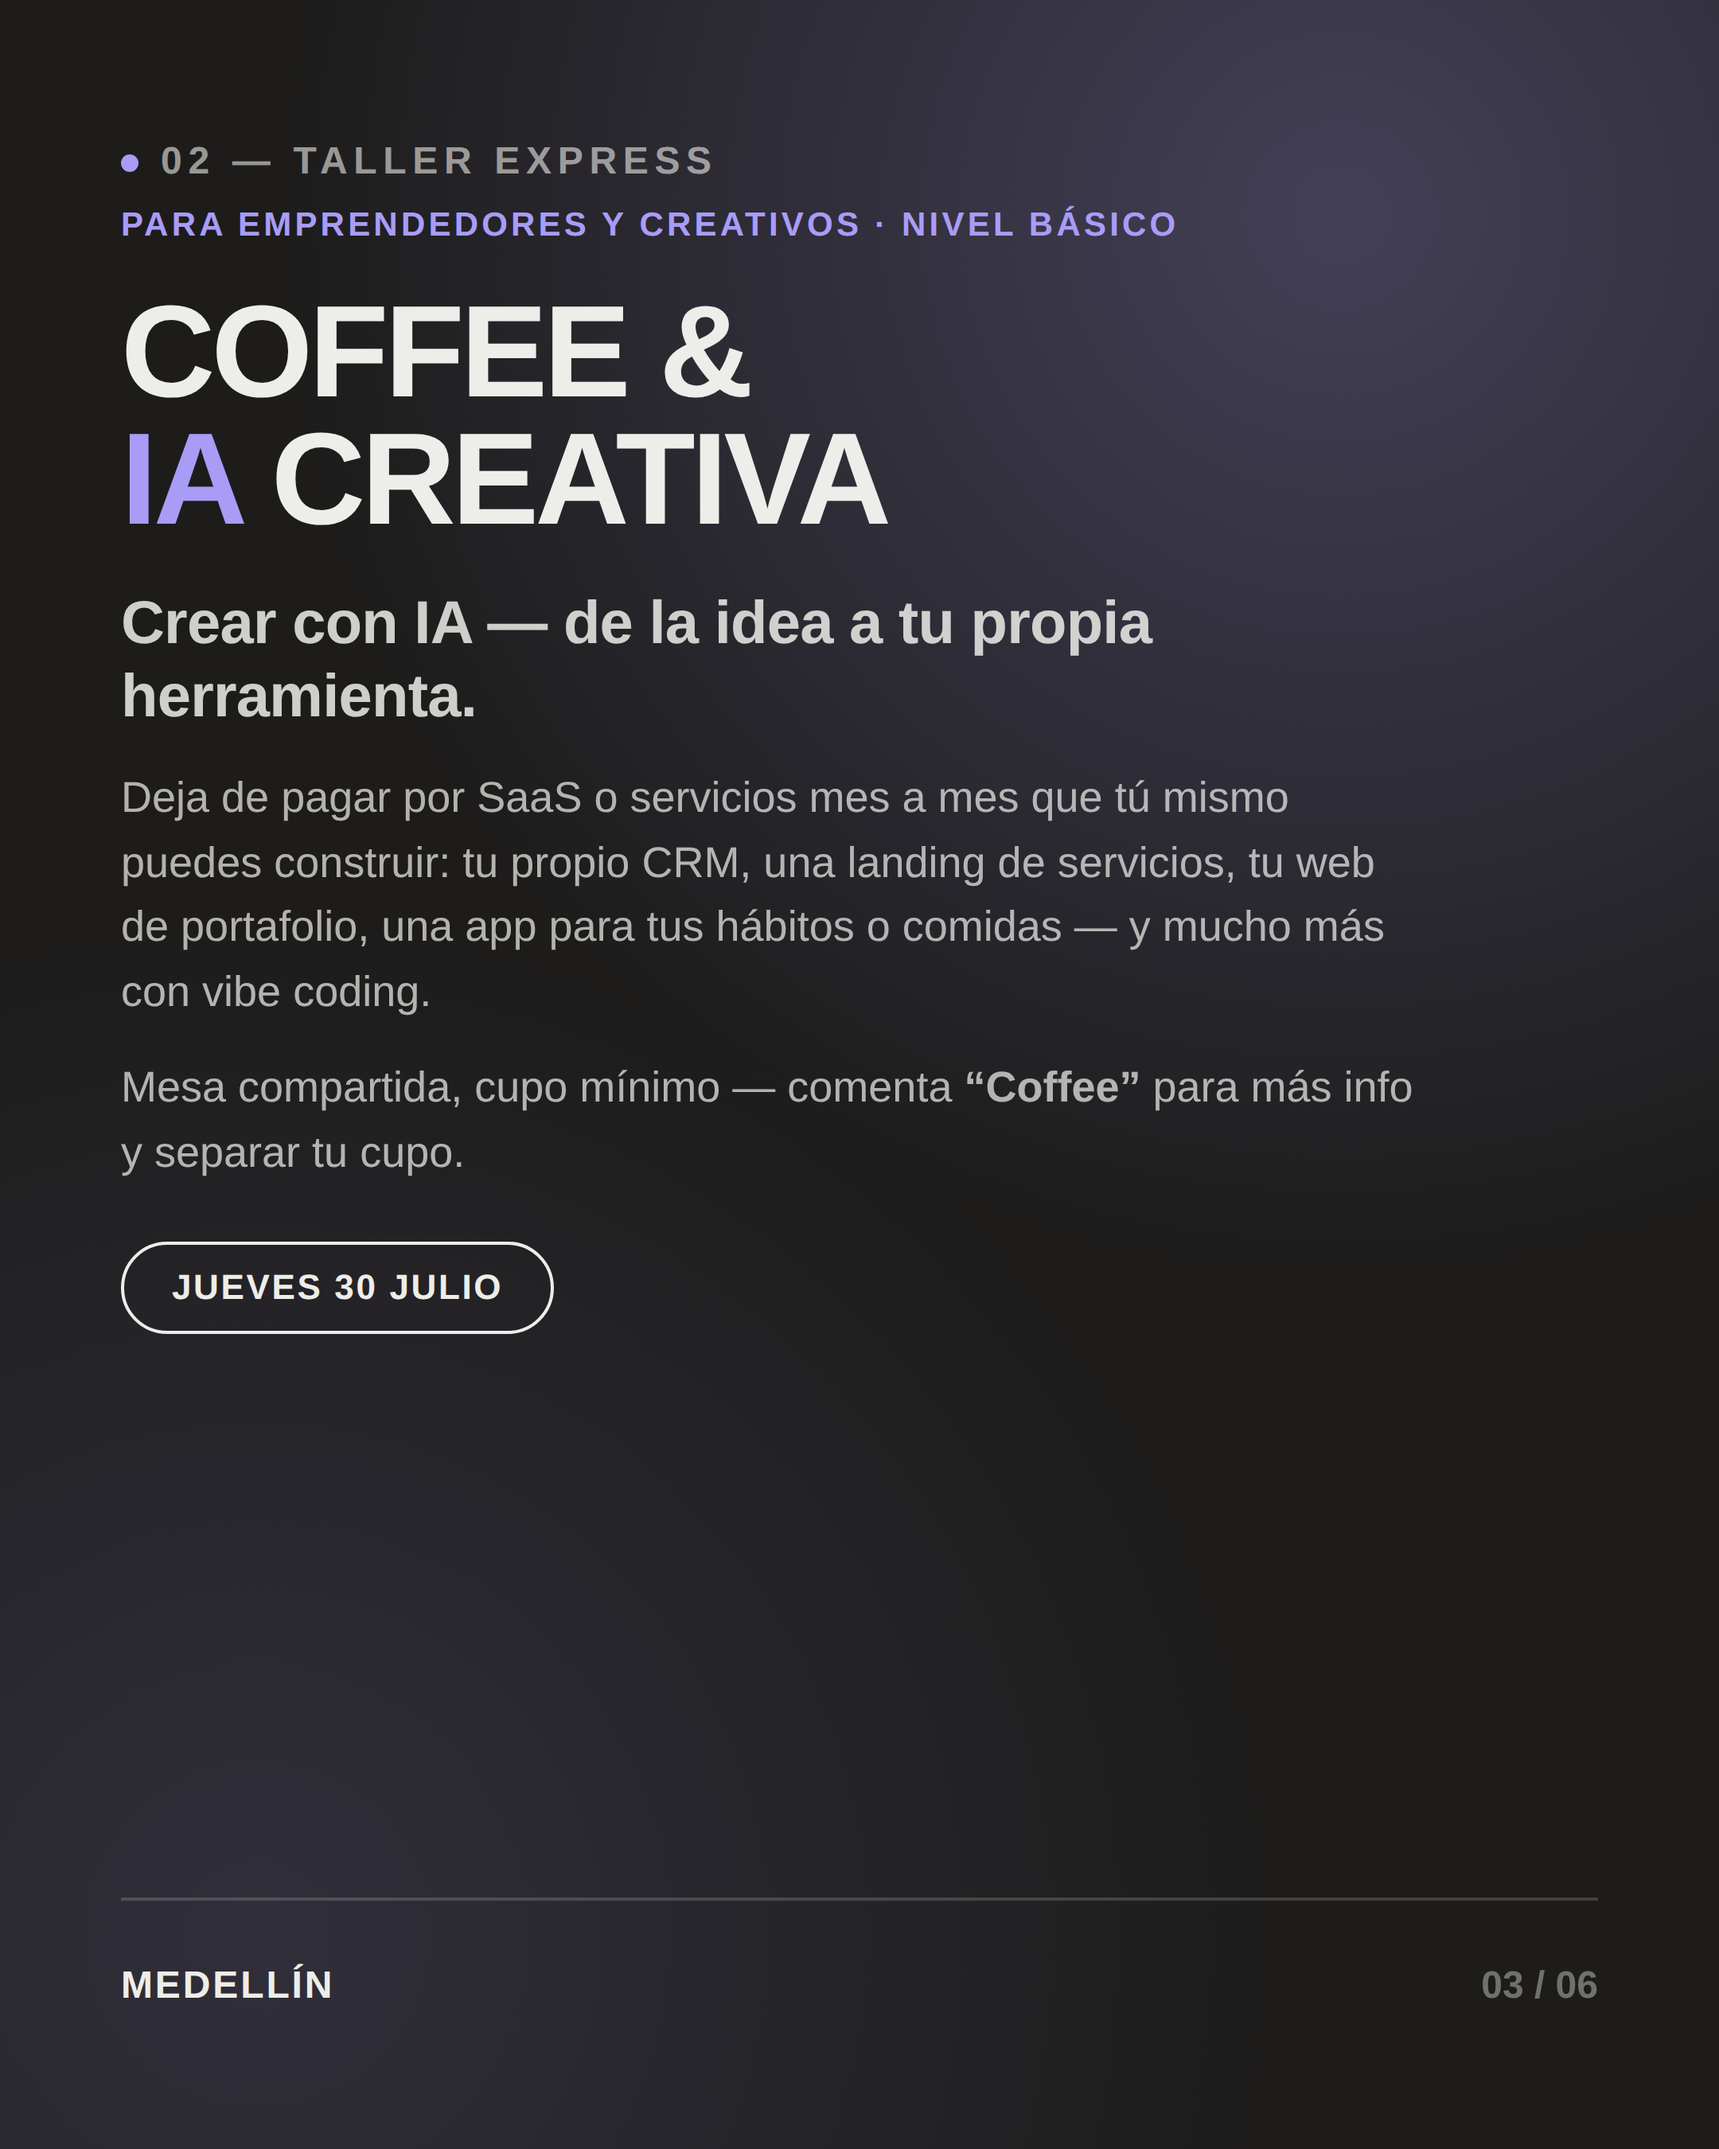
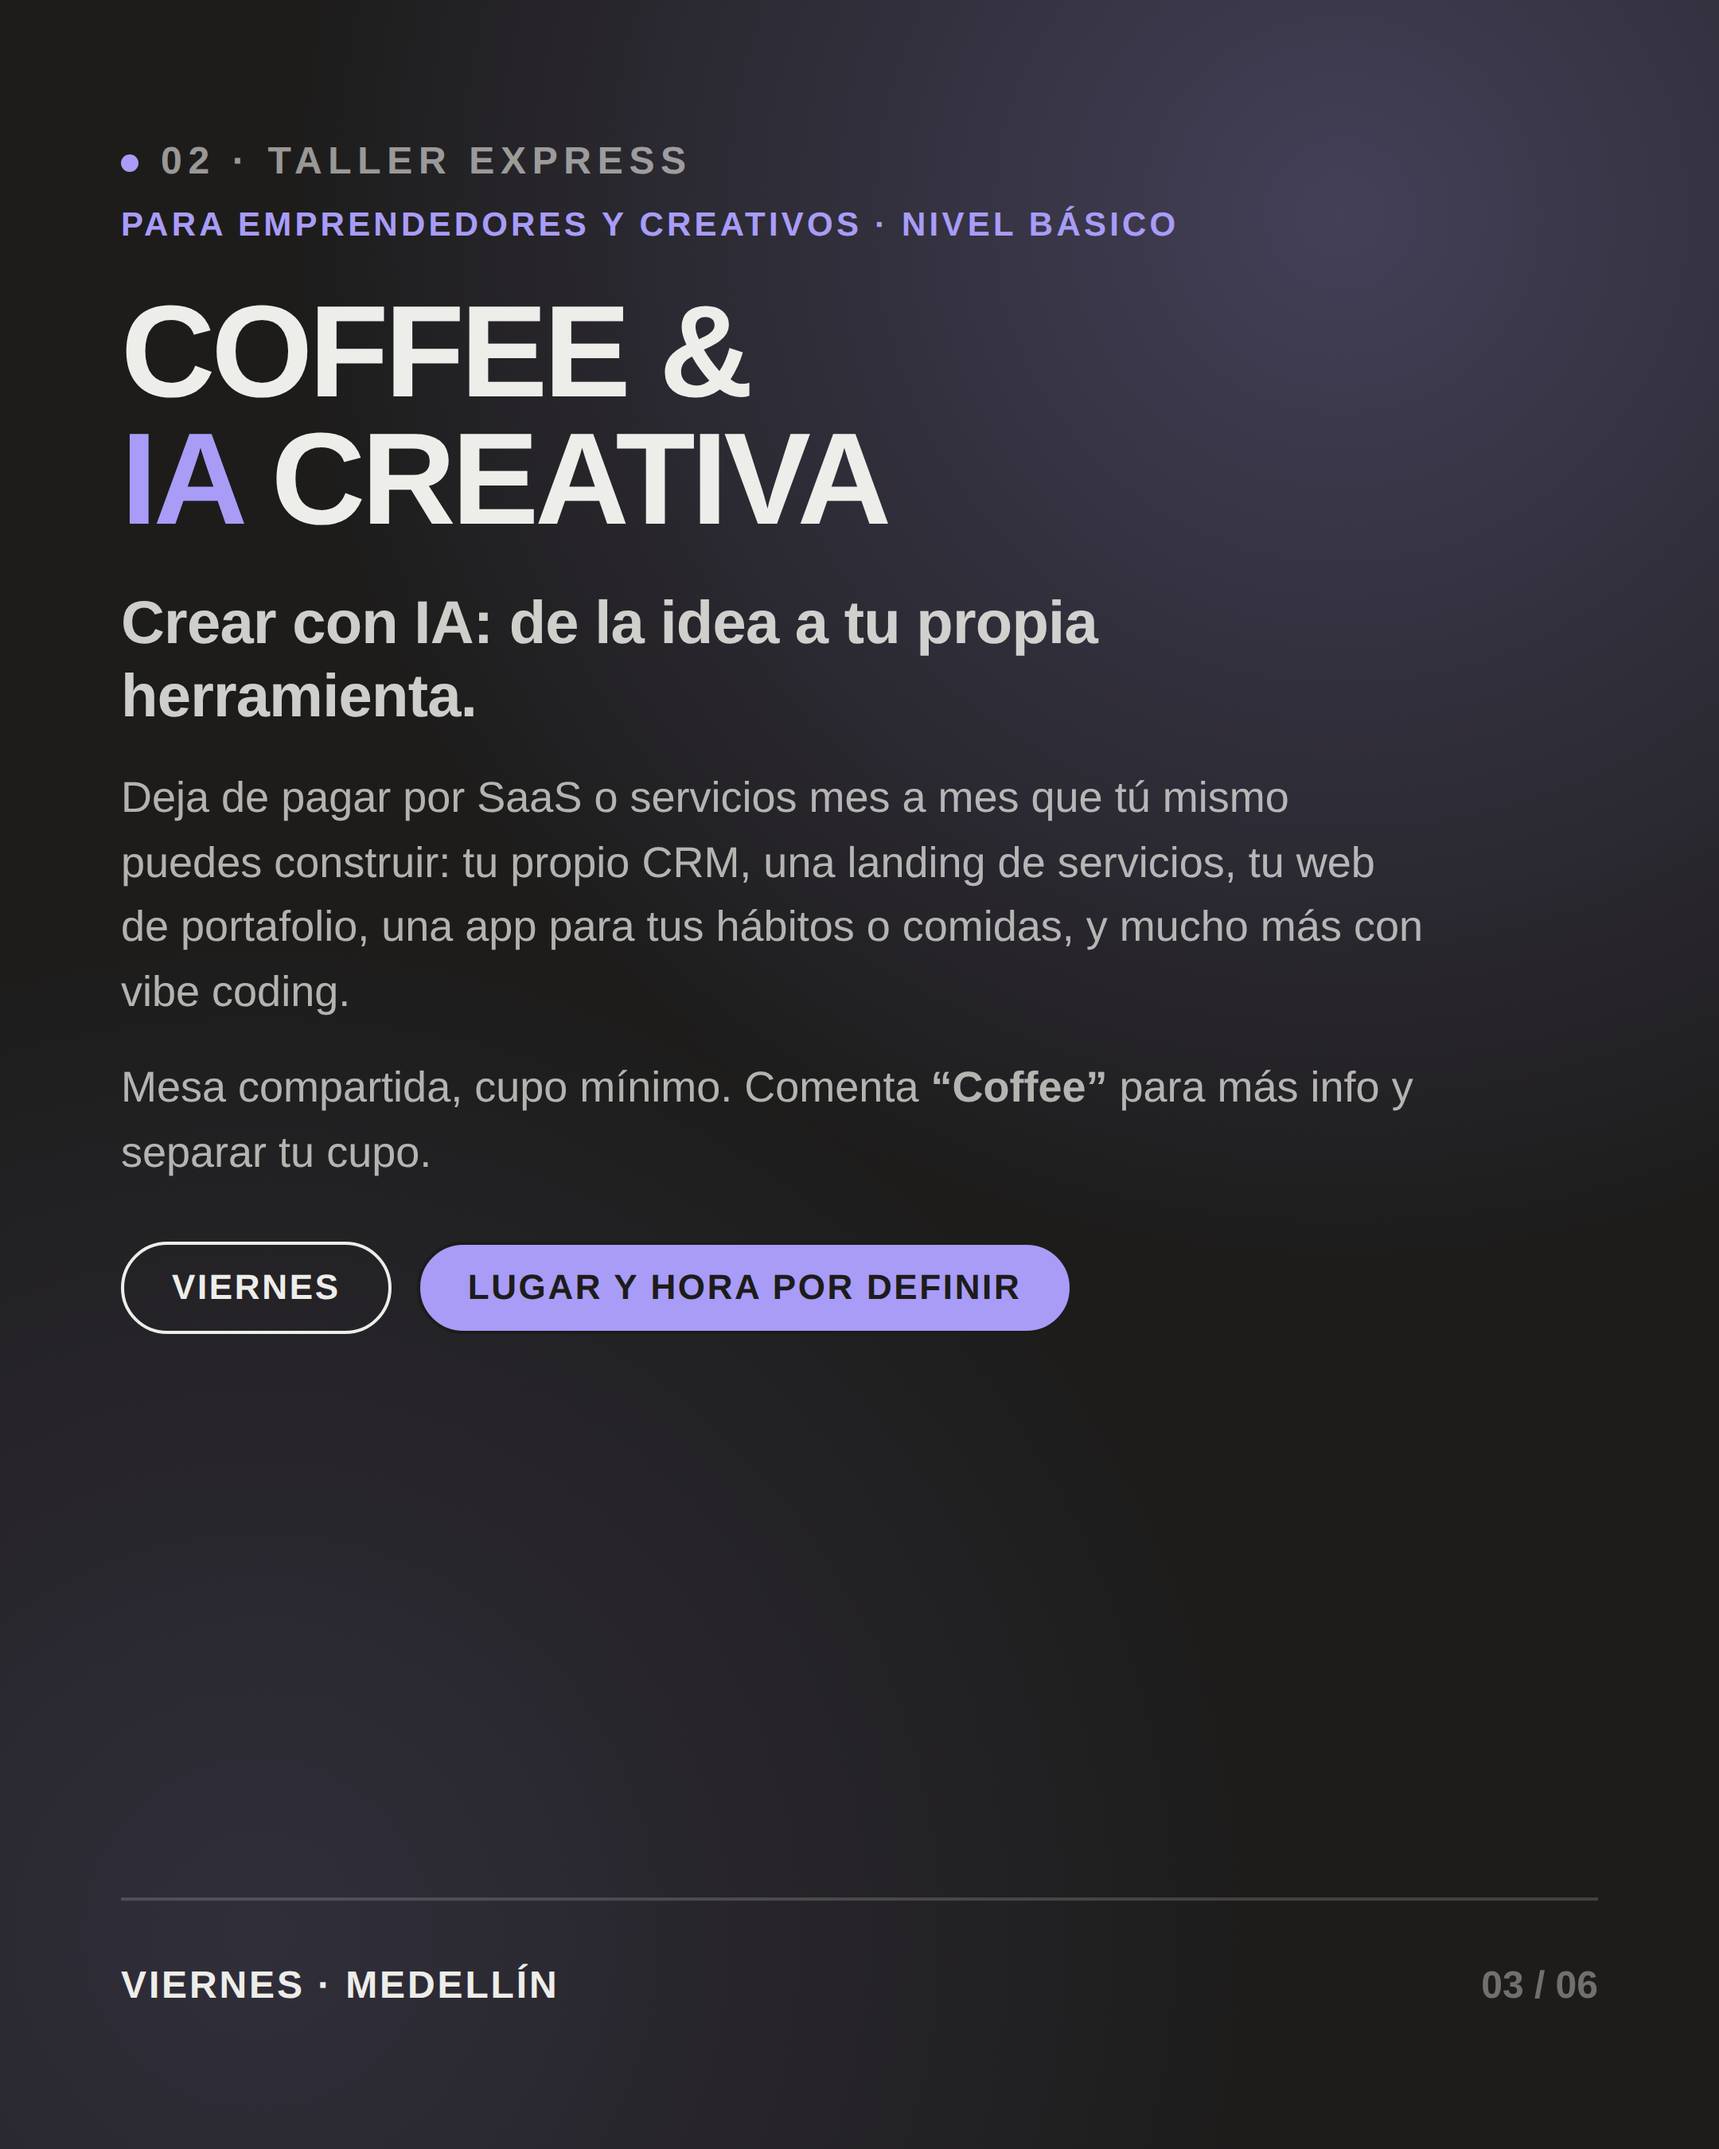
Fix copy: remove overused em dashes, move workshop to Friday
Replaces most em dashes across the carousel and caption with periods,
colons, or natural phrasing. Rewrites slide 1's cover copy verbatim
per feedback. Moves Coffee & IA Creativa to Friday with venue/time
TBD, keeping the Anti-Slop talk on Thursday 5pm at CBW Medellín, and
updates the agenda slide and CTA checklist to match.

diff --git a/Instagram/events-julio-2026/carousel.html b/Instagram/events-julio-2026/carousel.html
@@ -173,8 +173,8 @@ h2.big em{font-style:normal;color:var(--lilac)}
   <div class="glow-dark"></div>
   <div class="pad">
     <span class="eyebrow"><span class="dot"></span>Rose Days · Medellín</span>
-    <h1 class="mega">En la<br>casa de<br>Medallo<em>*</em></h1>
-    <p class="lede">30 y 31 de julio, Rose Days quiere compartir contigo — apúntate a las actividades que preparé para ti.</p>
+    <h1 class="mega">Estoy en<br>mi casa<br>en Medallo<em>*</em></h1>
+    <p class="lede">Volví por poco tiempo y tengo ganas de compartir lo que sé contigo este 30 y 31 de julio, apúntate a las actividades que tengo para ti.</p>
 
     <div class="chips-row">
       <span class="pill">Julio 30 &amp; 31</span>
@@ -186,7 +186,7 @@ h2.big em{font-style:normal;color:var(--lilac)}
       <span class="idx">01 / 06</span>
     </div>
   </div>
-  <div class="mascot" style="width:300px;height:300px;right:-30px;top:420px;transform:rotate(-6deg)">
+  <div class="mascot" style="width:280px;height:280px;right:-20px;top:800px;transform:rotate(-6deg)">
     <img src="../../Images/Hero/11669931.png" alt="">
   </div>
   <div class="arrow-hint">desliza →</div>
@@ -195,9 +195,9 @@ h2.big em{font-style:normal;color:var(--lilac)}
 <!-- ===================== SLIDE 2 — ASESORÍAS EXPRESS 1:1 ===================== -->
 <section class="slide light" id="slide-2">
   <div class="pad">
-    <span class="eyebrow"><span class="dot"></span>01 — Asesorías Express 1:1</span>
+    <span class="eyebrow"><span class="dot"></span>01 · Asesorías Express 1:1</span>
     <h2 class="big">45 min.<br>Sin filtros,<br>sin <em>Zoom</em>.</h2>
-    <p class="body-txt">Cara a cara, en un café lindo de Medellín. Nada de plantillas genéricas ni consejos de manual — solo tu marca, puesta sobre la mesa, y una hora para verla distinto.</p>
+    <p class="body-txt">Cara a cara, en un café lindo de Medellín. Nada de plantillas genéricas ni consejos de manual: solo tu marca, puesta sobre la mesa, y una hora para verla distinto.</p>
 
     <div class="offer-list">
       <div class="offer"><span class="dot-mark d1"></span><div><h3>Auditoría de Marca</h3><p>Lo que nadie te dice: qué está funcionando, qué te está saboteando y por dónde empezar de verdad.</p></div></div>
@@ -219,19 +219,20 @@ h2.big em{font-style:normal;color:var(--lilac)}
 <section class="slide dark" id="slide-3">
   <div class="glow-dark"></div>
   <div class="pad">
-    <span class="eyebrow"><span class="dot"></span>02 — Taller Express</span>
+    <span class="eyebrow"><span class="dot"></span>02 · Taller Express</span>
     <p class="sub-eyebrow">Para emprendedores y creativos · Nivel básico</p>
     <h2 class="big">Coffee &amp;<br><em>IA</em> creativa</h2>
-    <p class="lede">Crear con IA — de la idea a tu propia herramienta.</p>
-    <p class="body-txt">Deja de pagar por SaaS o servicios mes a mes que tú mismo puedes construir: tu propio CRM, una landing de servicios, tu web de portafolio, una app para tus hábitos o comidas — y mucho más con vibe coding.</p>
-    <p class="body-txt">Mesa compartida, cupo mínimo — comenta <b>&ldquo;Coffee&rdquo;</b> para más info y separar tu cupo.</p>
+    <p class="lede">Crear con IA: de la idea a tu propia herramienta.</p>
+    <p class="body-txt">Deja de pagar por SaaS o servicios mes a mes que tú mismo puedes construir: tu propio CRM, una landing de servicios, tu web de portafolio, una app para tus hábitos o comidas, y mucho más con vibe coding.</p>
+    <p class="body-txt">Mesa compartida, cupo mínimo. Comenta <b>&ldquo;Coffee&rdquo;</b> para más info y separar tu cupo.</p>
 
     <div class="chips-row">
-      <span class="pill alt">Jueves 30 julio</span>
+      <span class="pill alt">Viernes</span>
+      <span class="pill outline">Lugar y hora por definir</span>
     </div>
 
     <div class="footline">
-      <span class="tag">Medellín</span>
+      <span class="tag">Viernes · Medellín</span>
       <span class="idx">03 / 06</span>
     </div>
   </div>
@@ -240,9 +241,9 @@ h2.big em{font-style:normal;color:var(--lilac)}
 <!-- ===================== SLIDE 4 — CHARLA IA ANTI-SLOP ===================== -->
 <section class="slide light" id="slide-4">
   <div class="pad">
-    <span class="eyebrow"><span class="dot"></span>03 — Charla</span>
+    <span class="eyebrow"><span class="dot"></span>03 · Charla</span>
     <h2 class="big">IA <em>anti-slop</em></h2>
-    <p class="lede">Cómo mantener una marca coherente —visual y verbal— cuando todo lo genera la IA.</p>
+    <p class="lede">Cómo mantener una marca coherente (visual y verbal) cuando todo lo genera la IA.</p>
     <p class="body-txt">Conversamos con 3 expertos sobre cómo evitar que tu contenido, tus posts, tus flyers y tu marca suenen igual a todos los demás.</p>
 
     <div class="chips-row">
@@ -268,13 +269,13 @@ h2.big em{font-style:normal;color:var(--lilac)}
     <div class="sched">
       <div class="sched-day">
         <span class="d-label">Jueves 30</span>
-        <h3>Asesorías 1:1 + Coffee &amp; IA Creativa + Charla Anti-Slop</h3>
-        <p>Sesiones express durante el día, taller de vibe coding, y a las 5:00 pm la charla sobre marca coherente en la era de la IA — CBW Medellín.</p>
+        <h3>Asesorías 1:1 + Charla Anti-Slop</h3>
+        <p>Sesiones express durante el día y, a las 5:00 pm, la charla sobre marca coherente en la era de la IA en CBW Medellín.</p>
       </div>
       <div class="sched-day">
         <span class="d-label">Viernes 31</span>
-        <h3>Asesorías 1:1</h3>
-        <p>Últimos cupos de asesorías express: auditoría de marca, dirección creativa o workflows de IA.</p>
+        <h3>Asesorías 1:1 + Coffee &amp; IA Creativa</h3>
+        <p>Últimos cupos de asesorías express y el taller de vibe coding. Lugar y hora por definir.</p>
       </div>
     </div>
 
@@ -293,12 +294,12 @@ h2.big em{font-style:normal;color:var(--lilac)}
     <h2 class="big">Te espero<br>en Medallo<em>*</em></h2>
 
     <ul class="check-list">
-      <li><span class="ck">✓</span>Asesorías 1:1 — solo 3 cupos, comenta &ldquo;Asesoría&rdquo;</li>
-      <li><span class="ck">✓</span>Coffee &amp; IA Creativa — cupo mínimo, comenta &ldquo;Coffee&rdquo;</li>
-      <li><span class="ck">✓</span>Charla anti-slop — jueves 5pm, CBW Medellín, entrada libre</li>
+      <li><span class="ck">✓</span>Asesorías 1:1: solo 3 cupos, comenta &ldquo;Asesoría&rdquo;</li>
+      <li><span class="ck">✓</span>Coffee &amp; IA Creativa: viernes, cupo mínimo, comenta &ldquo;Coffee&rdquo;</li>
+      <li><span class="ck">✓</span>Charla anti-slop: jueves 5pm, CBW Medellín, entrada libre</li>
     </ul>
 
-    <p class="contact-line">Escríbeme por DM o a <a href="mailto:lerosedays@icloud.com">lerosedays@icloud.com</a> — o comenta la palabra clave de la actividad que te interese.</p>
+    <p class="contact-line">Escríbeme por DM o a <a href="mailto:lerosedays@icloud.com">lerosedays@icloud.com</a>, o comenta la palabra clave de la actividad que te interese.</p>
 
     <h2 class="cta-wordmark">ROSEDAYS<span class="sub">Brand Lab · Medellín</span></h2>
   </div>

diff --git a/Instagram/events-julio-2026/caption.md b/Instagram/events-julio-2026/caption.md
@@ -1,18 +1,18 @@
-# Carrusel — Eventos Julio 30 & 31, Medellín
+# Carrusel: Eventos Julio 30 & 31, Medellín
 
 ## Copy para el post (caption)
 
-Rose Days está en la casa de Medallo, y quiere compartir contigo 🌹
+Estoy en mi casa en Medallo 🌹 Volví por poco tiempo y tengo ganas de compartir lo que sé contigo.
 
-Este 30 y 31 de julio abro agenda en Medellín — presencial, cara a cara. Apúntate a la actividad que más te llame:
+Este 30 y 31 de julio, presencial en Medellín, apúntate a la actividad que más te llame:
 
-🟣 **Asesorías Express 1:1** (45 min) — Auditoría de Marca, Dirección Creativa, y de extra: asesoría en workflows de IA y creación de imágenes coherentes de campaña para moda, marca y publicidad. Solo 3 cupos en total. Comenta **"Asesoría"** y te cuento más.
+🟣 **Asesorías Express 1:1** (45 min): Auditoría de Marca, Dirección Creativa, y de extra, asesoría en workflows de IA y creación de imágenes coherentes de campaña para moda, marca y publicidad. Solo 3 cupos en total. Comenta **"Asesoría"** y te cuento más.
 
-☕ **Coffee & IA Creativa** (jueves 30) — Para emprendedores y creativos, nivel básico. Crear con IA: de la idea a tu propia herramienta. Deja de pagar por SaaS o servicios mes a mes que tú mismo puedes construir — tu CRM, tu landing, tu web de portafolio, una app para tus hábitos, y mucho más con vibe coding. Mesa compartida, cupo mínimo. Comenta **"Coffee"** para más info y separar tu cupo.
+☕ **Coffee & IA Creativa** (viernes, lugar y hora por definir): para emprendedores y creativos, nivel básico. Crear con IA, de la idea a tu propia herramienta. Deja de pagar por SaaS o servicios mes a mes que tú mismo puedes construir: tu CRM, tu landing, tu web de portafolio, una app para tus hábitos, y mucho más con vibe coding. Mesa compartida, cupo mínimo. Comenta **"Coffee"** para más info y separar tu cupo.
 
-🎤 **Charla "IA Anti-Slop"** (jueves 30, 5:00 pm, CBW Medellín) — Entrada libre. Cómo mantener una marca coherente, visual y verbal, cuando todo lo genera la IA. Conversamos con 3 expertos sobre cómo evitar que tu contenido, tus posts, tus flyers y tu marca suenen igual a todos los demás.
+🎤 **Charla "IA Anti-Slop"** (jueves 30, 5:00 pm, CBW Medellín): entrada libre. Cómo mantener una marca coherente, visual y verbal, cuando todo lo genera la IA. Conversamos con 3 expertos sobre cómo evitar que tu contenido, tus posts, tus flyers y tu marca suenen igual a todos los demás.
 
-Cupos limitados en asesorías y en el taller — comenta la palabra clave de la actividad que te interese, o escríbeme por DM / a lerosedays@icloud.com.
+Cupos limitados en asesorías y en el taller. Comenta la palabra clave de la actividad que te interese, o escríbeme por DM o a lerosedays@icloud.com.
 
 Te espero en Medallo 👇
 
@@ -29,4 +29,4 @@ Te espero en Medallo 👇
 - 6 slides, 1080×1350px (4:5), listas para subir en orden slide-01 → slide-06.
 - Paleta y tipografías tomadas directo del sitio (`index.html`): Satoshi 900 (titulares), Bricolage Grotesque (cuerpo). Slides oscuras (1, 3, 5, 6) en ink `#1D1C1B` con acento lila `#A89CF7` (sin amarillo); slides claras (2, 4) en bg `#EDEDE9` con toques de verde ácido `#E6FF00`.
 - Mascotas ilustradas reutilizadas de `Images/Hero/` para mantener continuidad visual con el resto del portafolio.
-- Fuente editable: `carousel.html` en esta misma carpeta — reexportar con Playwright si cambia el copy (ver `slide-0X.png`).
+- Fuente editable: `carousel.html` en esta misma carpeta. Reexportar con Playwright si cambia el copy (ver `slide-0X.png`).
